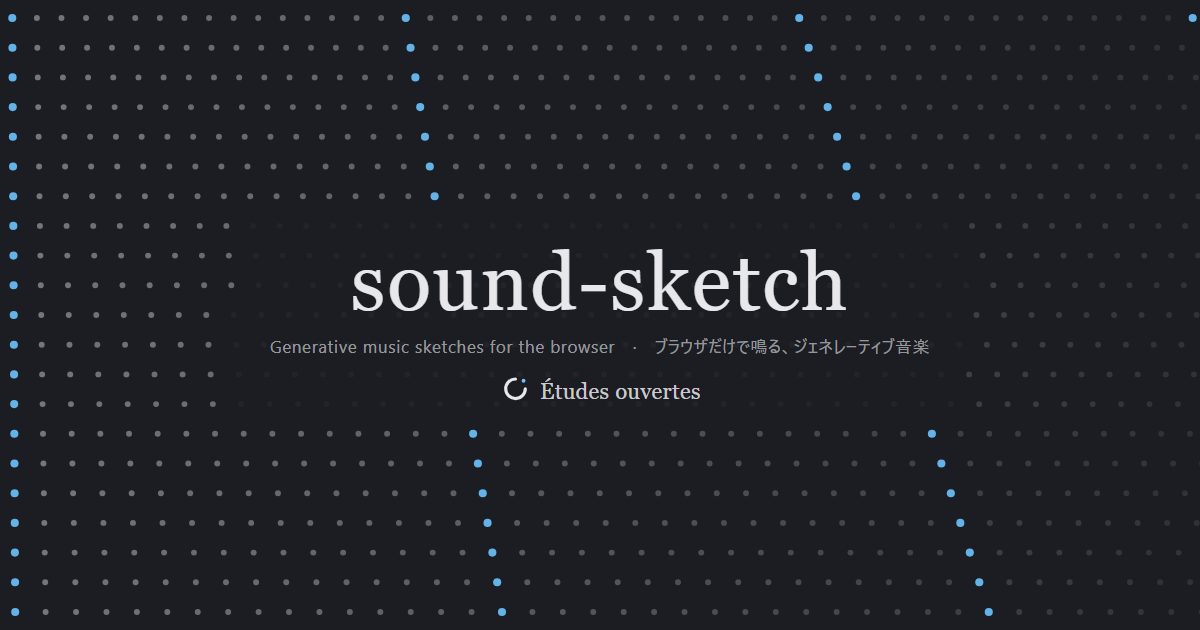
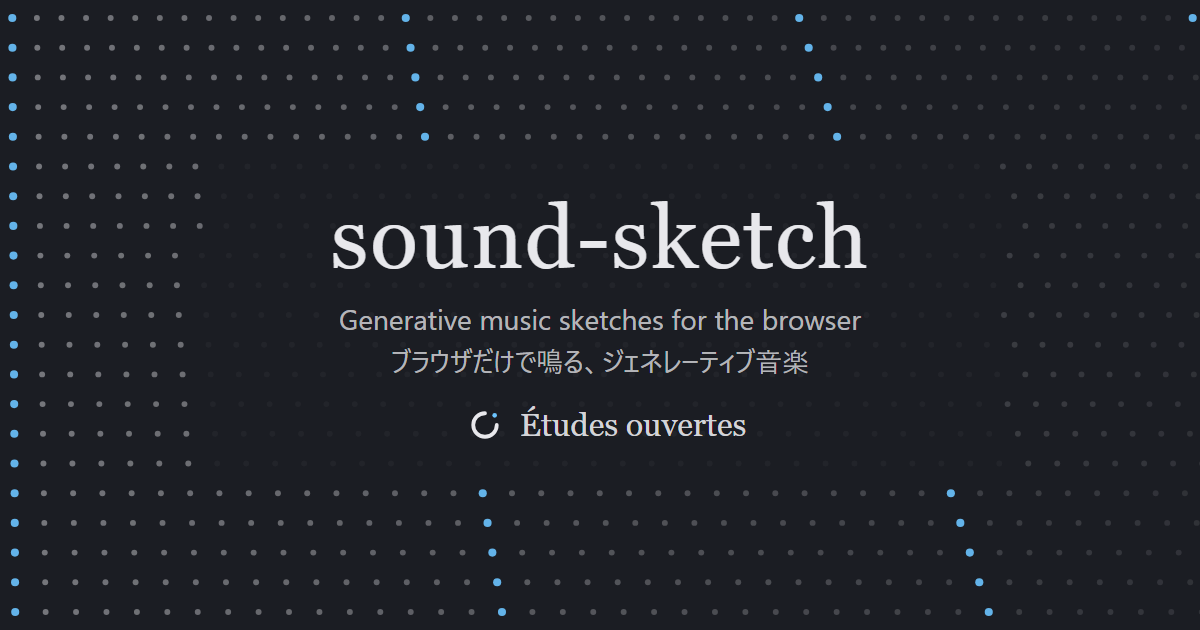
Enlarge the text on the link-card image so it reads at card size

diff --git a/vite.config.ts b/vite.config.ts
@@ -87,7 +87,8 @@ function ogp(): Plugin {
         meta("property", "og:title", page.title),
         meta("property", "og:description", page.description),
         meta("property", "og:url", url),
-        meta("property", "og:image", SITE_URL + "og.png"),
+        // 画像を差し替えたら v を上げる（X などが古い画像を覚えているため）
+        meta("property", "og:image", SITE_URL + "og.png?v=2"),
         meta("property", "og:image:width", "1200"),
         meta("property", "og:image:height", "630"),
         meta("property", "og:image:alt", "sound-sketch — Études ouvertes"),
